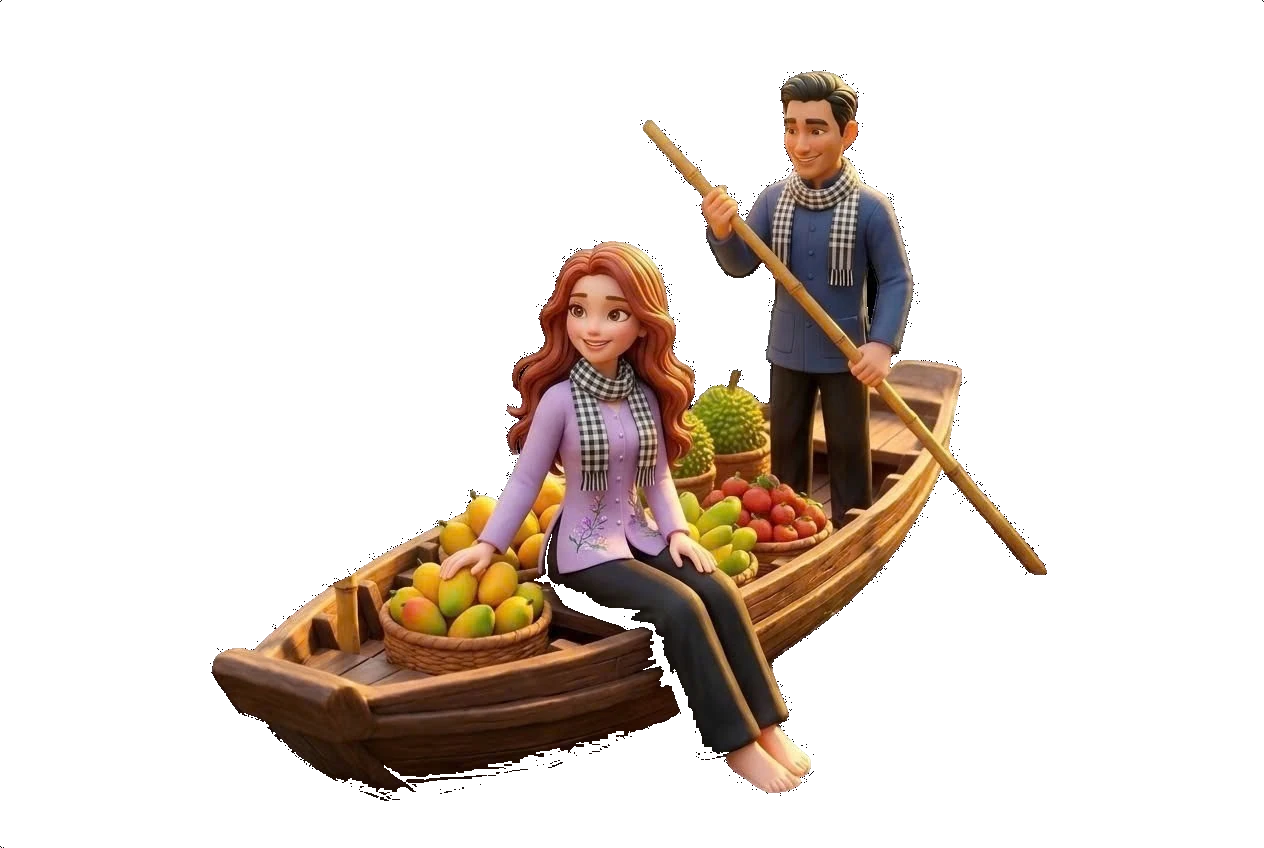
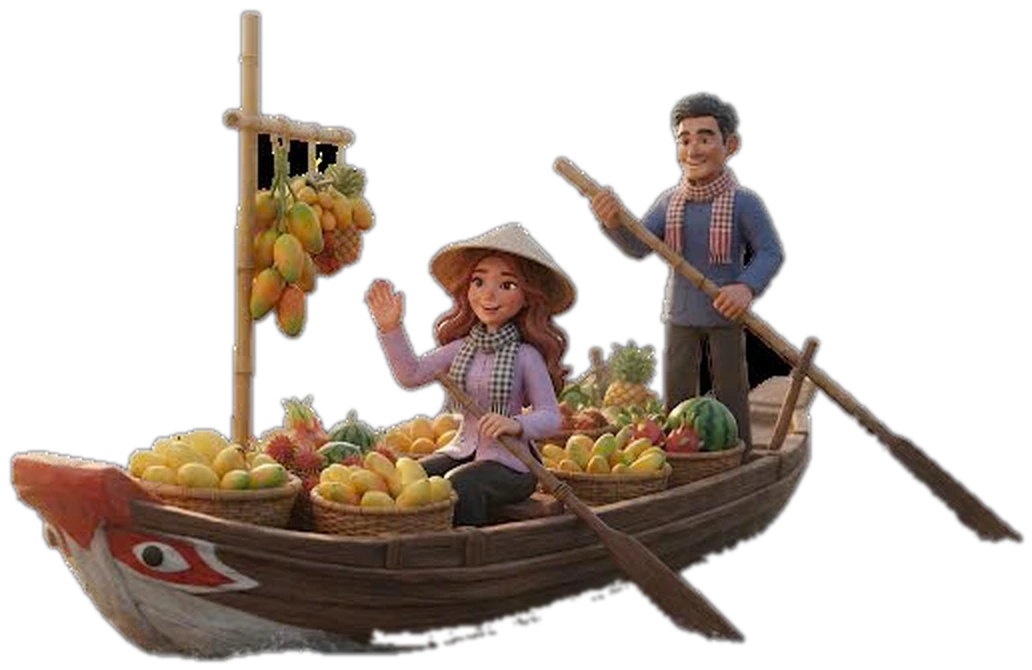
VietLens: giao diện đất sét đêm + ảnh đôi thương hồ mới (#617)
* VietLens: chuyển dashboard sang giao diện đất sét đêm

Dashboard VietLens (vietlens/index.html) không nằm trong đợt chuyển 8
trang nội dung sang đất sét (#605) nên vẫn giữ theme tối cũ, lệch tông
với phần còn lại của site.

Thêm css/clay-vietlens-skin.css — ghi đè các biến màu CSS sẵn có của
vietlens/styles.css (--bg/--panel/--line/--text/--muted/--cyan/--shadow)
sang cùng bảng màu "đất sét đêm" đã dùng cho 11 trang lab/app khác
(css/clay-dark-skin.css), thêm phông Plus Jakarta Sans/Be Vietnam Pro,
bo góc + đổ bóng chìm-nổi cho card/nút. Không đụng --green/--amber/--red
(màu ngữ nghĩa tăng/giảm/cảnh báo của biểu đồ và delta) theo đúng
nguyên tắc đã ghi trong clay-dark-skin.css. Không đụng HTML/ID/app.js —
thuần đổi trình bày qua 1 file CSS nạp sau styles.css.

Cập nhật sw.js (bizon-v349) để cache file CSS mới.

Test: Playwright chụp màn hình desktop + mobile, không lỗi console;
cài service worker thật xác nhận cache đủ 248 file.

* Bến Phù Sa: thay ảnh đôi thương hồ chèo ghe bằng bản mới rõ nét hơn

Thay assets/character/phu-sa/doi-phu-sa-ghe.webp (ảnh dùng chung ở
trang chủ index.html và ben-phu-sa.html) bằng ảnh mới cô gửi, hợp phong
cách claymorphism với các nhân vật khác trên trang chủ hơn bản cũ.

Ảnh gốc là JPEG nền đen (không có kênh alpha) — tách nền bằng flood-fill
từ biên ảnh qua vùng gần-đen (giữ nguyên các mảng đen thật sự thuộc chủ
thể như tóc/bóng không chạm biên), cắt sát nội dung, phóng lên 2x bằng
[…]

diff --git a/css/clay-vietlens-skin.css b/css/clay-vietlens-skin.css
@@ -1,0 +1,68 @@
+/* BizOn — lớp áo "đất sét đêm" cho dashboard VietLens AI (vietlens/index.html).
+   Chỉ đổi biến màu, phông, bo góc và đổ bóng qua biến CSS sẵn có của vietlens/styles.css;
+   KHÔNG đụng ID, cấu trúc HTML hay app.js/official.js. Giữ nguyên --green/--amber/--red
+   (màu ngữ nghĩa tăng/giảm/cảnh báo của biểu đồ và delta). Dùng chung bảng màu với
+   css/clay-dark-skin.css (lab/, app/) để VietLens nằm trong cùng họ "đất sét đêm".
+   Nạp SAU ./styles.css, ngay trước </head>:
+   <link rel="stylesheet" href="../css/clay-vietlens-skin.css"> */
+@import url("bizon-clay-fonts.css");
+
+:root {
+  --bg: #022A2E;
+  --panel: #0B4A4F;
+  --panel-2: #083E43;
+  --line: rgba(255, 213, 138, .16);
+  --text: #FBF4E8;
+  --muted: #BFE6EE;
+  --cyan: #7FD3DC;
+  --shadow: 0 18px 30px -16px rgba(0, 0, 0, .55), inset 0 -6px 0 rgba(0, 0, 0, .18);
+}
+
+html, body {
+  font-family: "Be Vietnam Pro", "BVP Fallback", system-ui, sans-serif !important;
+}
+.hero h1, .panel h2, .official-head h2, .ocard h3 {
+  font-family: "Plus Jakarta Sans", "PJS Fallback", "Be Vietnam Pro", sans-serif;
+}
+body {
+  background: radial-gradient(circle at 15% 0, rgba(253, 161, 39, .10) 0, transparent 30%), var(--bg) !important;
+}
+
+/* Khối đất sét: bo góc rộng hơn + đổ bóng chìm-nổi thay vì viền mảnh phẳng */
+.pulse-card, .panel, .kpis > article {
+  border-color: var(--line) !important;
+  box-shadow: var(--shadow) !important;
+}
+.pulse-card { border-radius: 28px; }
+.panel { border-radius: 26px; }
+.kpis article { border-radius: 20px; }
+.ocard, .signal, .scenario-row, .forecast-card, .control-grid label {
+  border-radius: 18px;
+  border-color: var(--line) !important;
+}
+.pulse-grid div, .audit-grid div {
+  border-radius: 16px;
+  background: rgba(2, 42, 46, .4) !important;
+}
+
+/* Nút: khối đất sét nổi thay vì phẳng */
+button {
+  border-radius: 16px;
+  background: var(--cyan);
+  color: #022A2E;
+  box-shadow: inset 0 -4px 0 rgba(0, 0, 0, .2), inset 0 2px 0 rgba(255, 255, 255, .25);
+}
+button.ghost, .mini {
+  background: transparent;
+  box-shadow: none;
+  border-radius: 14px;
+}
+
+/* Thanh điều hướng trên cùng + badge nội bộ — hoà vào tông ấm chung */
+.topbar { background: rgba(2, 42, 46, .9) !important; border-color: var(--line) !important; }
+.brand-mark { background: linear-gradient(145deg, var(--cyan), #FDA127) !important; }
+.internal-band { background: linear-gradient(90deg, rgba(253, 161, 39, .16), rgba(253, 161, 39, .06)) !important; border-bottom-color: rgba(253, 161, 39, .4) !important; }
+.internal-band .ib-k { color: #FDA127 !important; }
+
+.vn-map { background: radial-gradient(circle at 50% 50%, rgba(127, 211, 220, .08), transparent 60%), #06201F !important; }
+.panel select { background: #06201F !important; border-color: var(--line) !important; }

diff --git a/vietlens/index.html b/vietlens/index.html
@@ -8,6 +8,7 @@
   <title>VietLens AI — Vietnam Intelligence & Foresight</title>
   <link rel="icon" type="image/svg+xml" href="../assets/brand/bizon-favicon.svg">
   <link rel="stylesheet" href="./styles.css">
+  <link rel="stylesheet" href="../css/clay-vietlens-skin.css">
   <style>
     .internal-band{background:linear-gradient(90deg,rgba(212,178,60,.16),rgba(212,178,60,.06));border-bottom:1px solid rgba(212,178,60,.4);color:#e9edf0;font-size:.82rem;line-height:1.5}
     .internal-band .ib-in{max-width:1180px;margin:0 auto;padding:10px 20px;display:flex;gap:12px;align-items:baseline;flex-wrap:wrap}

diff --git a/sw.js b/sw.js
@@ -1,7 +1,7 @@
 /* BizOn Bật Nghiệp 2026 – Service Worker (offline app shell)
  * © 2026 Đỗ Thùy Hương & Phan Anh Tú. Bảo lưu mọi quyền. */
 
-const CACHE = 'bizon-v348';
+const CACHE = 'bizon-v349';
 const SHELL = [
   './',
   './index.html',
@@ -72,6 +72,7 @@ const SHELL = [
   './css/bizon-clay.css',
   './css/clay-tool-skin.css',
   './css/clay-dark-skin.css',
+  './css/clay-vietlens-skin.css',
   './assets/fonts/BeVietnamPro-400-vietnamese.woff2',
   './assets/fonts/BeVietnamPro-400-latin.woff2',
   './assets/fonts/BeVietnamPro-700-vietnamese.woff2',
